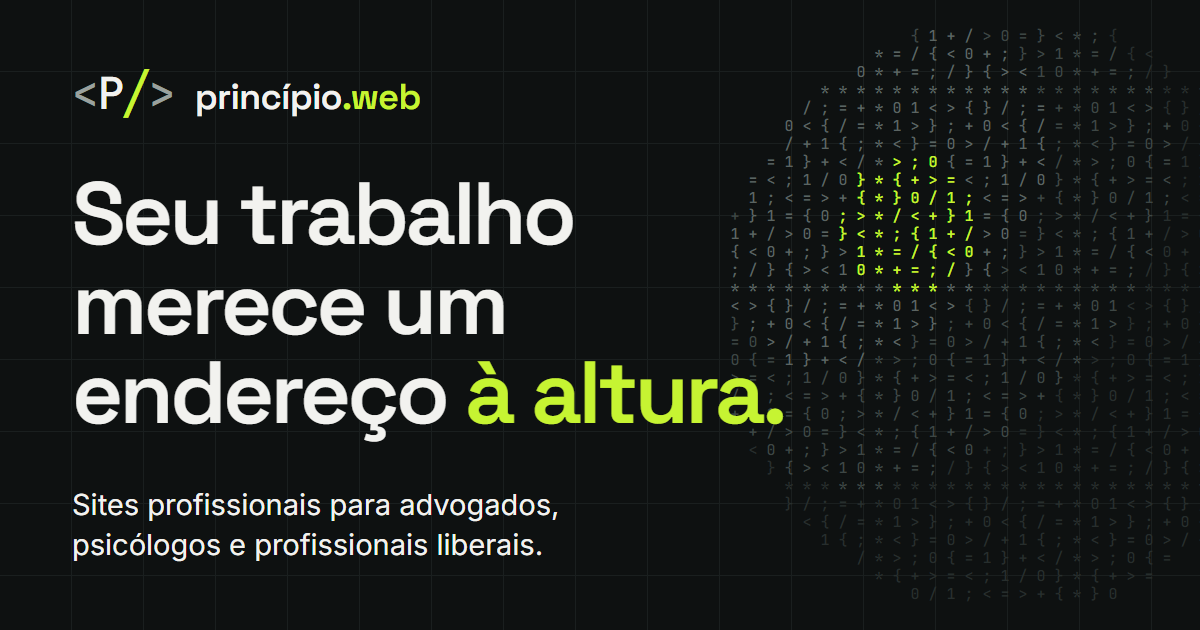
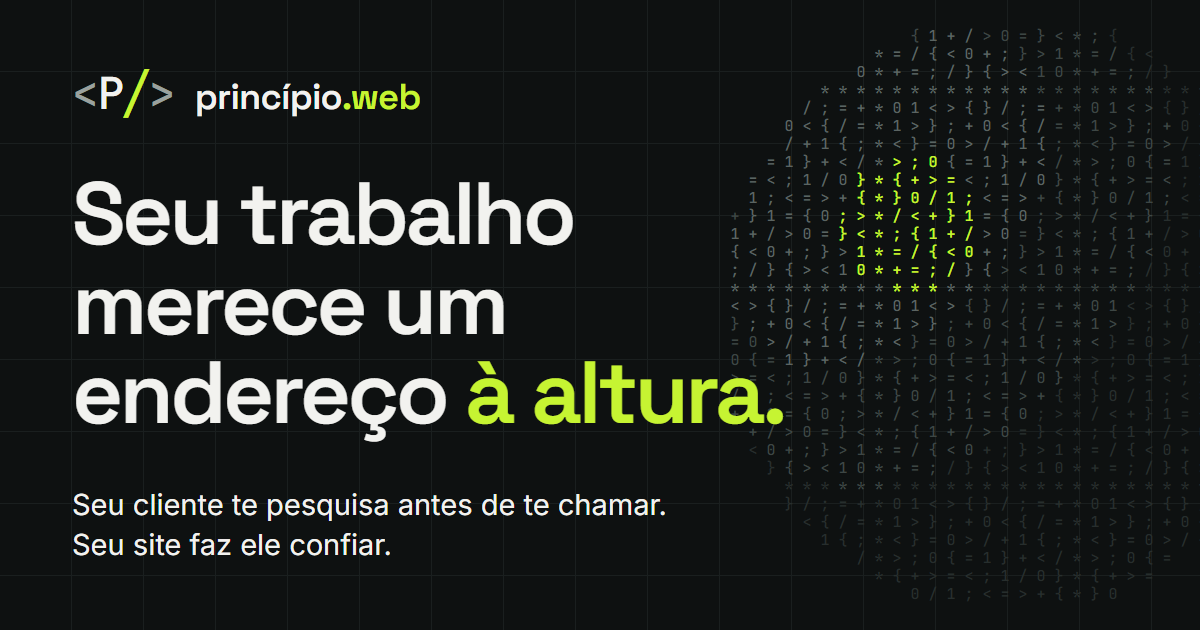
troca a frase da abertura, da imagem e das descrições
Os prints deste site no portfólio também foram refeitos.

Changed region(s): [[0.0617, 0.7841, 0.555, 0.9048]]

diff --git a/index.html b/index.html
@@ -224,7 +224,7 @@
     <title>Princípio Web: sites profissionais</title>
     <meta
       name="description"
-      content="Sites e landing pages para advogados, psicólogos e profissionais liberais. A partir de R$ 350, com domínio e hospedagem inclusos por 1 ano. Muriaé, MG."
+      content="Seu cliente te pesquisa antes de te chamar. Seu site faz ele confiar. Sites para advogados e psicólogos a partir de R$ 350. Muriaé, MG."
     />
     <meta name="theme-color" content="#0E1111" />
     <link rel="canonical" href="https://princisval.com.br/" />
@@ -237,7 +237,7 @@
     <meta property="og:title" content="Princípio Web: sites profissionais" />
     <meta
       property="og:description"
-      content="Sites e landing pages para advogados, psicólogos e profissionais liberais. A partir de R$ 350, com domínio e hospedagem inclusos por 1 ano. Muriaé, MG."
+      content="Seu cliente te pesquisa antes de te chamar. Seu site faz ele confiar. Sites para advogados e psicólogos a partir de R$ 350. Muriaé, MG."
     />
     <meta property="og:url" content="https://princisval.com.br/" />
     <!-- Imagem do cartão: precisa do endereço completo, porque quem lê é o WhatsApp, não o navegador -->
@@ -277,7 +277,7 @@
             "name": "Princípio Web",
             "url": "https://princisval.com.br/",
             "slogan": "O princípio da sua presença online.",
-            "description": "Sites e landing pages para advogados, psicólogos e profissionais liberais. A partir de R$ 350, com domínio e hospedagem inclusos por 1 ano. Muriaé, MG.",
+            "description": "Seu cliente te pesquisa antes de te chamar. Seu site faz ele confiar. Sites para advogados e psicólogos a partir de R$ 350. Muriaé, MG.",
             "image": "https://princisval.com.br/compartilhar.png",
             "logo": "https://princisval.com.br/favicon.svg",
             "telephone": "+55 32 99821-4961",
@@ -761,7 +761,7 @@
         <p class="pilula mono" data-intro-entrada><span aria-hidden="true">●</span> agenda aberta</p>
         <p class="rotulo mono" data-intro-entrada><span aria-hidden="true">// </span>sites e landing pages</p>
         <h1 id="abertura-titulo">Seu trabalho merece um endereço <span class="destaque">à altura.</span></h1>
-        <p class="abertura__subtitulo" data-intro-entrada>Sites profissionais para advogados, psicólogos e profissionais liberais.</p>
+        <p class="abertura__subtitulo" data-intro-entrada>Seu cliente te pesquisa antes de te chamar. <span>Seu site faz ele confiar.</span></p>
         <div class="abertura__botoes">
           <a class="botao" href="https://wa.me/5532998214961" target="_blank" rel="noopener" data-intro-entrada="ultimo">Chamar no WhatsApp <span aria-hidden="true">→</span></a>
           <a class="botao botao--secundario" href="#portfolio" data-intro-entrada>Ver projetos</a>

diff --git a/src/styles/sections.css b/src/styles/sections.css
@@ -169,6 +169,11 @@ main > section:last-child {
   font-size: var(--texto-grande);
 }
 
+/* inline-block: a segunda frase desce inteira, sem partir no meio */
+.abertura__subtitulo span {
+  display: inline-block;
+}
+
 /* No celular, botões um embaixo do outro, na largura toda */
 .abertura__botoes {
   display: flex;
